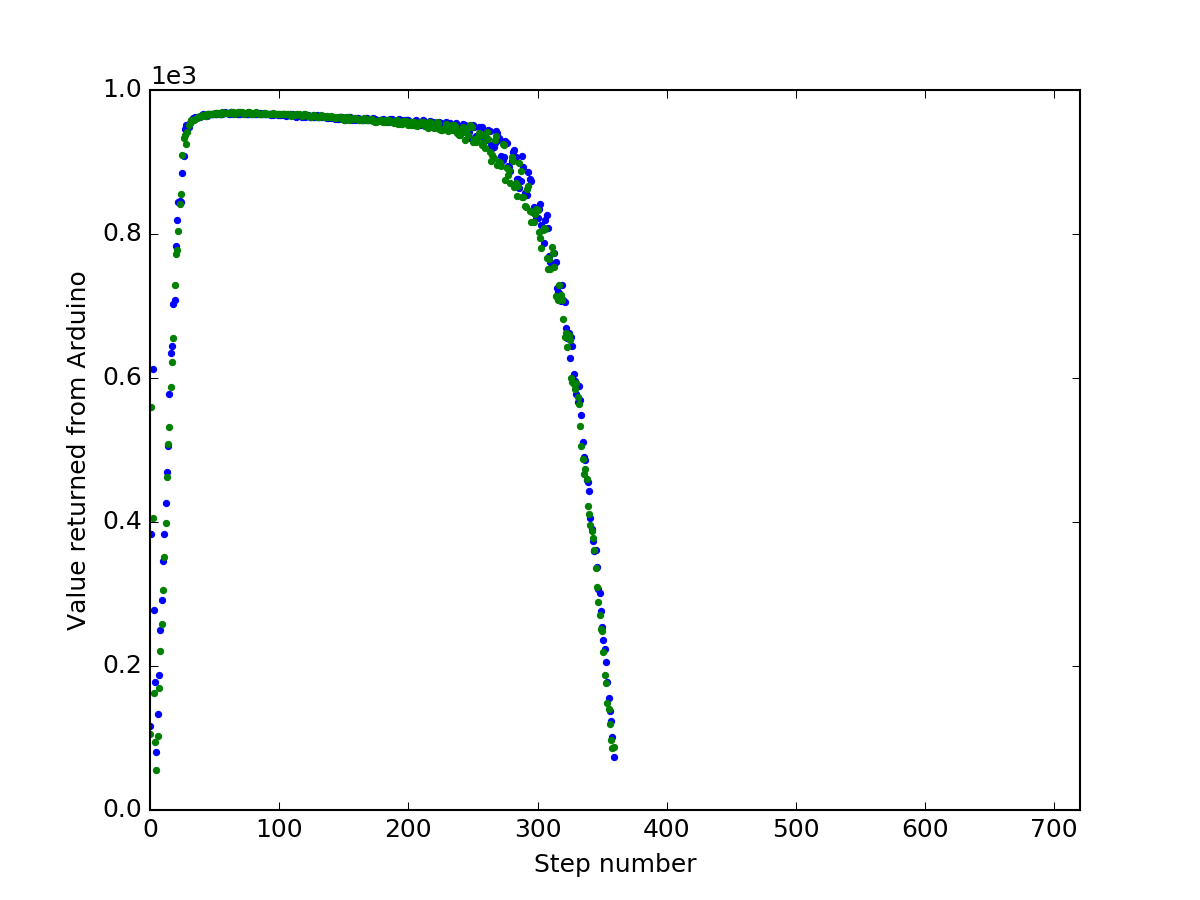
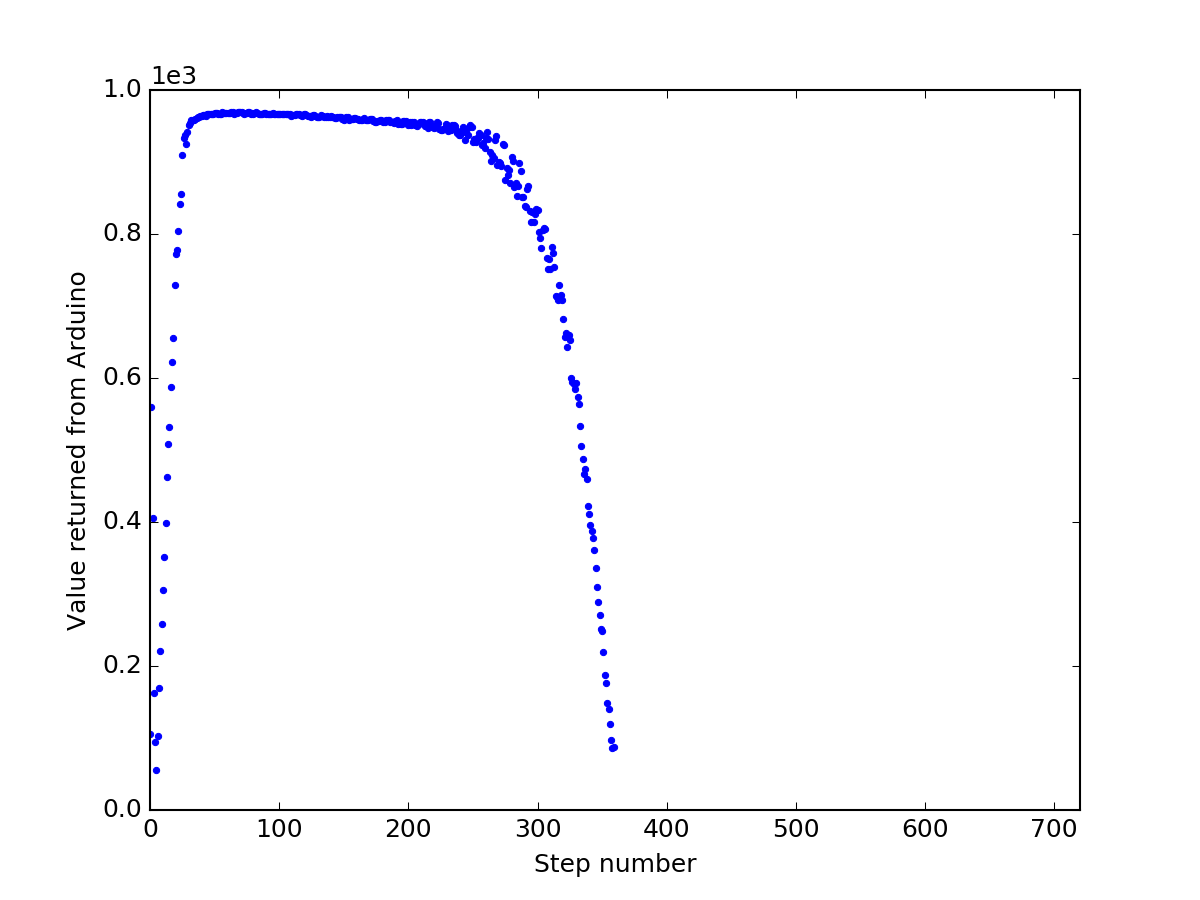
correct sine fits

diff --git a/Laser/importLaserData.py b/Laser/importLaserData.py
@@ -70,5 +70,12 @@ for i in range(1,20):
     exec("plt.ticklabel_format(style='sci', axis='y', scilimits=(0,0))")
     exec("plt.plot(xBrewster, brewster%d_1,'.')"%i)
     exec("plt.savefig('./brewsterAngles/brewster%d_1.png',dpi=150)"%i)
+    
+for i in range(1,20):
+    exec("plt.figure(figsize=(8,6), dpi=150)")
+    exec("plt.xlabel('Step number',fontsize=12)")
+    exec("plt.ylabel('Value returned from Arduino',fontsize=12)")
+    exec("plt.xlim([0,720])")
+    exec("plt.ticklabel_format(style='sci', axis='y', scilimits=(0,0))")
     exec("plt.plot(xBrewster, brewster%d_2,'.')"%i)
     exec("plt.savefig('./brewsterAngles/brewster%d_2.png',dpi=150)"%i)
